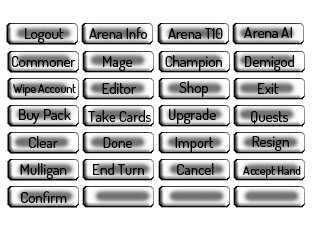
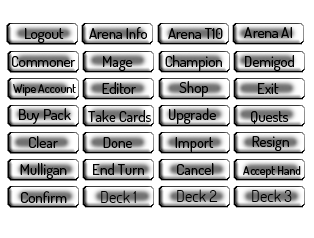
added Demigod mode to pvp. Now you can save 3 different decks instead of 1.

Changed region(s): [[0.8025, 0.7941, 0.9459, 0.8529], [0.5446, 0.7941, 0.6879, 0.8529], [0.3153, 0.7941, 0.4586, 0.8529]]

diff --git a/ui.main.js b/ui.main.js
@@ -1,6 +1,6 @@
 var Cards, CardCodes, Targeting, targetingMode, targetingModeCb, targetingText, game, discarding, animCb, user, renderer, endturnFunc, cancelFunc, accepthandfunc, foeDeck, player2summon, player2Card, guestname;
 (function(g) {
-	var htmlElements = ["leftpane", "chatArea", "chatinput", "deckimport", "aideck", "foename", "airefresh", "change", "login", "password", "challenge", "aievalopt", "chatBox", "trade", "bottompane"];
+	var htmlElements = ["leftpane", "chatArea", "chatinput", "deckimport", "aideck", "foename", "airefresh", "change", "login", "password", "challenge", "aievalopt", "chatBox", "trade", "bottompane", "demigodmode"];
 	for (var i = 0;i < htmlElements.length;i++) {
 		g[htmlElements[i]] = document.getElementById(htmlElements[i]);
 	}
@@ -529,6 +529,18 @@ function initGame(data, ai) {
 	if (data.aidrawpower) {
 	    game.player2.drawpower = data.aidrawpower;
 	}
+	if (data.demigod) {
+	    game.player1.maxhp = game.player1.hp = 200;
+	    game.player1.drawpower = 2;
+	    data.urdeck = doubleDeck(data.urdeck);
+	    game.player1.markpower = 3;
+	}
+	if (data.foedemigod) {
+	    game.player2.maxhp = game.player2.hp = 200;
+	    game.player2.drawpower = 2;
+	    data.deck = doubleDeck(data.deck);
+	    game.player2.markpower = 3;
+	}
 	var idx, code, decks = [data.urdeck, data.deck];
 	for (var j = 0;j < 2;j++) {
 		for (var i = 0;i < decks[j].length;i++) {
@@ -557,8 +569,8 @@ function initGame(data, ai) {
 	}
 }
 function getDeck() {
-	if (user) {
-		return user.deck || [];
+    if (user) {
+		return user.decks[user.selectedDeck] || [];
 	}
 	var deckstring = deckimport.value;
 	return deckstring ? deckstring.split(" ") : [];
@@ -1145,7 +1157,9 @@ buttonLoader.onComplete = function() {
 		cancel: buttonsList[22],
 		accepthand: buttonsList[23],
 		confirm: buttonsList[24],
-
+		deck1: buttonsList[25],
+		deck2: buttonsList[26],
+		deck3: buttonsList[27]
 	}
 	maybeStartMenu();
 }
@@ -1950,6 +1964,9 @@ function startEditor() {
 		var bclear = makeButton(8, 8, 75, 18, buttons.clear);
 		var bsave = makeButton(8, 32, 75, 18, buttons.done);
 		var bimport = makeButton(8, 56, 75, 18, buttons.import);
+		var bdeck1 = makeButton(8, 80, 75, 18, buttons.deck1);
+		var bdeck2 = makeButton(8, 104, 75, 18, buttons.deck2);
+		var bdeck3 = makeButton(8, 128, 75, 18, buttons.deck3);
 		var barena = makeButton(8, 152, 75, 18, buttons.arenaai, function() {
 			if (user && user.ocard) {
 				chatArea.value = "Oracle Card: " + CardCodes[user.ocard].name;
@@ -1965,7 +1982,7 @@ function startEditor() {
 			editordeck.push(TrueMarks[editormark]);
 			deckimport.value = editordeck.join(" ");
 			if (usePool) {
-				userEmit("setdeck", { d: etg.encodedeck(editordeck) });
+				userEmit("setdeck", { d: etg.encodedeck(editordeck), number: user.selectedDeck });
 				user.deck = editordeck;
 			}
 			startMenu();
@@ -1973,6 +1990,27 @@ function startEditor() {
 		bimport.click = function() {
 			editordeck = deckimport.value.split(" ");
 			processDeck();
+		}
+		bdeck1.click = function () {
+		    editordeck.push(TrueMarks[editormark]);
+		    userEmit("setdeck", { d: etg.encodedeck(editordeck), number: user.selectedDeck });
+		    user.selectedDeck = 1;
+		    editordeck = getDeck();
+		    processDeck();
+		}
+		bdeck2.click = function () {
+		    editordeck.push(TrueMarks[editormark]);
+		    userEmit("setdeck", { d: etg.encodedeck(editordeck), number: user.selectedDeck });
+		    user.selectedDeck = 2;
+		    editordeck = getDeck();
+		    processDeck();
+		}
+		bdeck3.click = function () {
+		    editordeck.push(TrueMarks[editormark]);
+		    userEmit("setdeck", { d: etg.encodedeck(editordeck), number: user.selectedDeck });
+		    user.selectedDeck = 3;
+		    editordeck = getDeck();
+		    processDeck();
 		}
 		barena.click = function() {
 			if (editordeck.length < 30) {
@@ -1989,6 +2027,11 @@ function startEditor() {
 		editorui.addChild(bclear);
 		editorui.addChild(bsave);
 		editorui.addChild(bimport);
+		if (usePool) {
+		    editorui.addChild(bdeck1);
+		    editorui.addChild(bdeck2);
+		    editorui.addChild(bdeck3);
+		}
 		if (usePool && user.ocard) {
 			editorui.addChild(barena);
 		}
@@ -2310,7 +2353,7 @@ function startMatch() {
 				cardart.position.y = pos.y > 300 ? 44 : 300;
 			} else cardart.visible = false;
 		} else {
-			if (game.winner == game.player1 && !game.quest) {
+			if (game.winner == game.player1 && !game.quest && game.player2.ai) {
 				if (!cardwon) {
 					var winnable = [];
 					for (var i = 0;i < foeDeck.length;i++) {
@@ -2327,7 +2370,7 @@ function startMatch() {
 						if (cardwon.rarity == 3 && Math.random() > .5)
 							cardwon = PlayerRng.randomcard(elewin.upped, function(x) { return x.element == elewin.element && x.type != PillarEnum && x.rarity <= rareAllowed; });
 					}
-					if (!game.player2.ai || (game.level && game.level < 3)) {
+					if (game.level && game.level < 3) {
 						cardwon = cardwon.asUpped(false);
 					}
 					if (game.gold) {
@@ -2336,6 +2379,7 @@ function startMatch() {
 						if (game.cost) goldwon += game.cost;
 						game.goldreward = goldwon;
 					}
+					cardart.visible = false;
 					game.cardreward = cardwon.code;
 				}
 			} else {
@@ -2982,7 +3026,11 @@ socket.on("arenatop", startArenaTop);
 socket.on("userdump", function(data) {
 	user = data;
 	if (user.deck) {
-		user.deck = etg.decodedeck(user.deck);
+	    user.decks = [];
+	    user.decks[1] = etg.decodedeck(user.deck1);
+	    user.decks[2] = etg.decodedeck(user.deck2);
+	    user.decks[3] = etg.decodedeck(user.deck3);
+	    user.deck = getDeck()
 		deckimport.value = user.deck.join(" ");
 	}
 	if (user.pool) {
@@ -3142,7 +3190,11 @@ function loginClick() {
 					} else if (!user.pool && !user.starter) {
 						startElementSelect();
 					} else {
-						user.deck = etg.decodedeck(user.deck);
+					    user.decks = [];
+					    user.decks[1] = etg.decodedeck(user.deck1);
+					    user.decks[2] = etg.decodedeck(user.deck2);
+					    user.decks[3] = etg.decodedeck(user.deck3);
+						user.deck = getDeck()
 						deckimport.value = user.deck.join(" ");
 						if (user.pool || user.pool == "") {
 							user.pool = etg.decodedeck(user.pool);
@@ -3180,14 +3232,14 @@ function changeClick() {
 function challengeClick() {
 	if (Cards) {
 		if (user && user.deck) {
-			userEmit("foewant", { f: foename.value, deck: user.deck });
+			userEmit("foewant", { f: foename.value, deck: user.deck, DGmode:demigodmode.checked });
 		} else {
 			var deck = getDeck();
 			if ((user && (!user.deck || user.deck.length < 31)) || deck.length < 11) {
 				startEditor();
 				return;
 			}
-			socket.emit("pvpwant", { deck: deck, room: foename.value });
+			socket.emit("pvpwant", { deck: deck, room: foename.value, DGmode: demigodmode.checked });
 		}
 	}
 }

diff --git a/server.js b/server.js
@@ -119,9 +119,9 @@ function foeEcho(socket, event){
 function updateActive(user) {
 	if (user) users[user].lastActive = Date.now();
 	activeusers = [];
-	for (var user in users) {
-		if (Date.now() - users[user].lastActive <= 1000 * 60 * 15)
-			activeusers.push(user);
+	for (var username in users) {
+		if (Date.now() - users[username].lastActive <= 1000 * 60 * 15)
+			activeusers.push(username);
 	}
 }
 function userEvent(socket, event, func){
@@ -160,7 +160,10 @@ function useruser(servuser){
     return {
         auth: servuser.auth,
         name: servuser.name,
-        deck: servuser.deck,
+        deck1: servuser.deck1 || servuser.deck,
+        deck2: servuser.deck2 || "",
+        deck3: servuser.deck3 || "",
+        selectedDeck: servuser.selectedDeck || 1,
         pool: servuser.pool,
         gold: servuser.gold,
         ocard: servuser.ocard,
@@ -196,8 +199,11 @@ io.sockets.on("connection", function(socket) {
 	userEvent(socket, "inituser", function(data, user) {
 		var u=data.u;
 		var startdeck = starter[data.e];
-		user.deck = startdeck || starter[0];
-		user.starter = user.deck;
+		user.deck1 = startdeck || starter[0];
+		user.starter = user.deck1;
+		user.deck2 = "";
+		user.deck3 = "";
+		user.selectedDeck = 1;
 		user.pool = [];
 		user.accountbound = [];
 		user.freepacks = "3,2,0,0";
@@ -239,8 +245,17 @@ io.sockets.on("connection", function(socket) {
 	userEvent(socket, "addgold", function (data, user) {
 	    user.gold += data.g;
 	});
-	userEvent(socket, "setdeck", function(data, user){
-		user.deck = data.d;
+	userEvent(socket, "setdeck", function (data, user) {
+	    switch (data.number) {
+	        case 1: user.deck1 = data.d;
+	            break;
+	        case 2: user.deck2 = data.d;
+	            break;
+	        case 3: user.deck3 = data.d;
+	            break;
+	        default: break;
+	    }
+	    user.selectedDeck = data.number;
 	});
 	userEvent(socket, "setarena", function(data, user){
 		var au="A:" + data.u;
@@ -320,6 +335,7 @@ io.sockets.on("connection", function(socket) {
 		}
 		console.log(u + " requesting " + f);
 		sockinfo[this.id].deck = data.deck;
+		sockinfo[this.id].demigod = data.DGmode;
 		if (f in users){
 			if (duels[f] == u) {
 				delete duels[f];
@@ -328,11 +344,12 @@ io.sockets.on("connection", function(socket) {
 				sockinfo[this.id].foe = usersock[f];
 				sockinfo[usersock[f].id].foe = this;
 				var deck0 = sockinfo[usersock[f].id].deck, deck1 = data.deck;
-				this.emit("pvpgive", { first: first, seed: seed, deck: deck0, urdeck: deck1, foename:f});
-				usersock[f].emit("pvpgive", { first: !first, seed: seed, deck: deck1, urdeck: deck0, foename:u});
+				var DG = sockinfo[this.id].demigod, DGfoe = sockinfo[usersock[f].id].demigod;
+				this.emit("pvpgive", { first: first, seed: seed, deck: deck0, urdeck: deck1, foename:f, demigod: DG, foedemigod: DGfoe});
+				usersock[f].emit("pvpgive", { first: !first, seed: seed, deck: deck1, urdeck: deck0, foename:u, demigod:DGfoe, foedemigod:DG});
 			} else {
 				duels[u] = f;
-				usersock[f].emit("chat", { message: u + " wants to duel with you!", mode: "info" });
+				if (usersock[f]) usersock[f].emit("chat", { message: u + " wants to duel with you!", mode: "info" });
 				this.emit("chat", { mode: "info", message: "You have sent a PvP request to " + f + "!" });
 			}
 		}
@@ -443,8 +460,9 @@ io.sockets.on("connection", function(socket) {
 	    packlist[data.type] -= data.amount;
 	    user.freepacks = packlist.join();
 	});
-	socket.on("guestchat", function(data) {
-		if (data.message == "/who") {
+	socket.on("guestchat", function (data) {
+	    if (data.message == "/who") {
+	        updateActive();
 			var usersonline = "";
 			for (var i = 0; i < activeusers.length; i++) {
 				usersonline += activeusers[i] + ", ";

diff --git a/index.html b/index.html
@@ -46,8 +46,8 @@
 		<input id="change" type="submit" value="Change" onclick="changeClick()" /><br><br>
 		<input id="foename" type="text" placeholder="Challenge" onkeydown="maybeChallenge(event)" />
 		<input id="challenge" type="submit" value="PvP" onclick="challengeClick()" />
-		<input id="trade" type="submit" value="Trade" onclick="tradeClick()" />
-		<br><br>
+		<input id="trade" type="submit" value="Trade" onclick="tradeClick()" /><br>
+        <input id="demigodmode" type="checkbox" /> Enable Demigod Mode<br><br>
 		<input id="aideck" type="text" placeholder="AI Deck" style="width:100%" /><br>
 		<input id="airefresh" type="text" placeholder="AI Speed" style="width:100%" onkeydown="event.cancelBubble=true" /><br>
 		<input id="aievalopt" type="checkbox" /> Enable Experimental AI<br>
